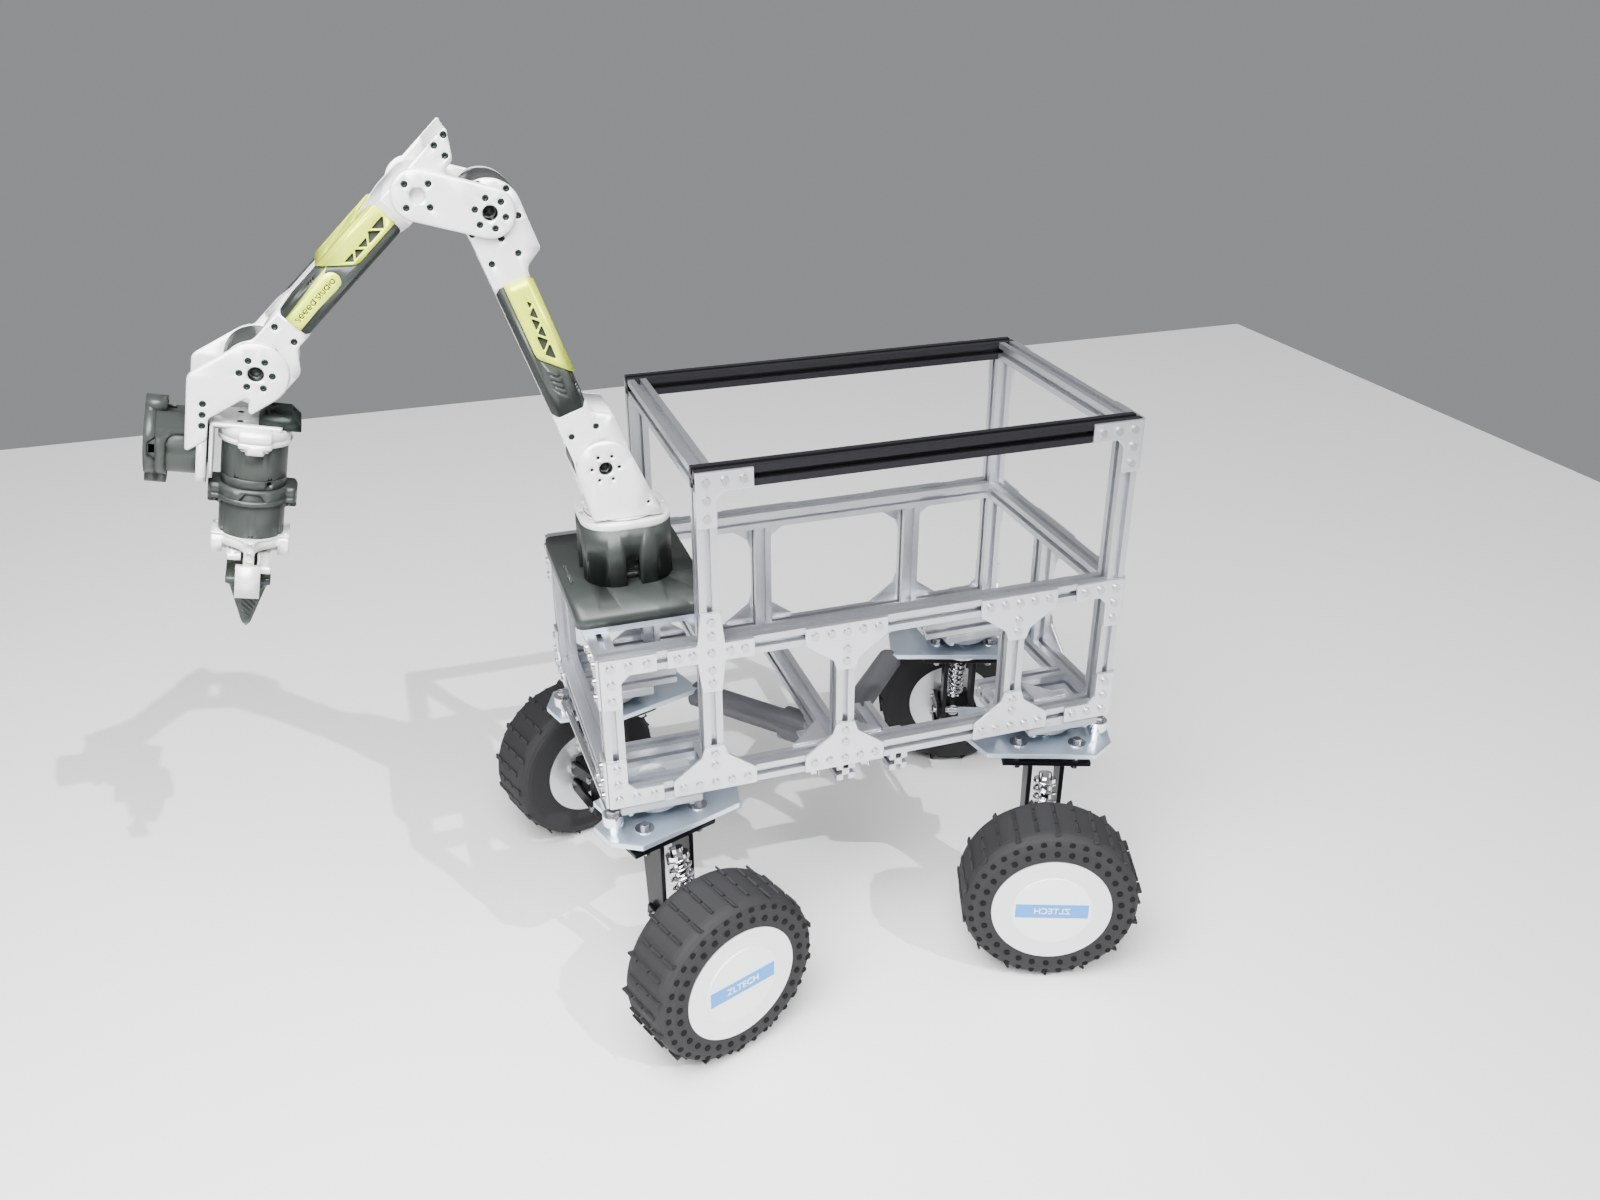
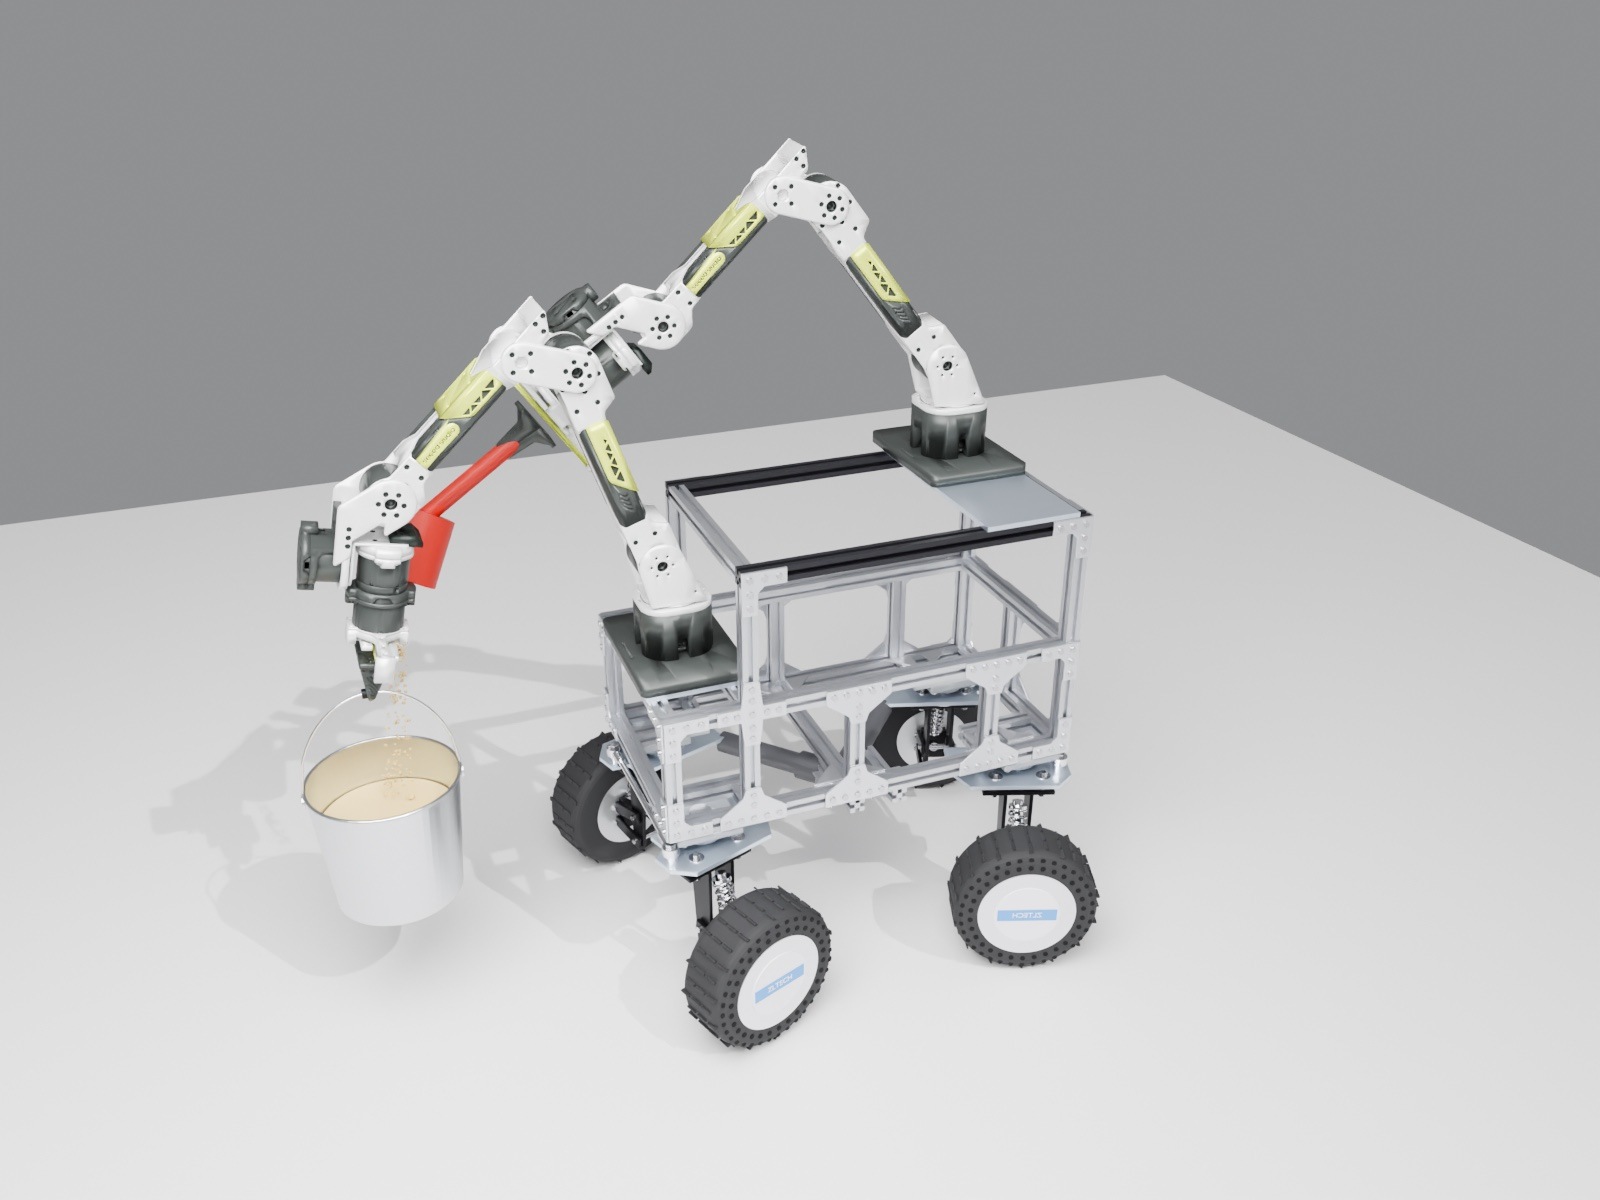
Two reBot arms: front low arm unchanged, second arm on the back of the tall box top; renders and READMEs updated

Changed region(s): [[0.0, 0.0925, 1.0, 0.8942], [0.2188, 0.7708, 0.25, 0.8017]]

diff --git a/arm-rebot/render/render_cemani_with_arm.py b/arm-rebot/render/render_cemani_with_arm.py
@@ -1,5 +1,6 @@
 # Cemani, up-to-date plan: frame v3 sized to the real frame, 4-wheel steering (rear axle = the front axle mirrored, steering
-# the opposite way for tight turns), and the reBot B601-DM on its plate on the front low box.
+# the opposite way for tight turns), and two reBot B601-DM arms working together: arm 1 on its plate on the front low box,
+# arm 2 on a plate across the back of the tall box top, pouring a scoop of feed into the pail arm 1 is holding.
 # Run: Blender -b --factory-startup -P render_cemani_with_arm.py -- VIEW [j1 j2 j3 j4 j5 j6]   (VIEW = iso | side | front | top)
 # Needs Seeed's URDF + colored visual STLs in $REBOT_DIR (default /tmp/rebot-dl): ReBot_Arm_DM.urdf, meshes/visual/*.stl
 # (from github.com/Seeed-Projects/reBot-DevArm, Rebot_Arm_description/DM).
@@ -11,6 +12,14 @@ src = open(FRAME).read()
 argv = sys.argv[sys.argv.index("--") + 1:] if "--" in sys.argv else []
 VIEW = argv[0] if argv else "iso"
 POSE = [float(v) for v in argv[1:7]] if len(argv) >= 7 else [0.0, -1.9, -1.15, 0.6, 0.0, 0.0]
+
+# Arm 2 on the back of the tall box top. Pose solved offline (damped least squares on the URDF chain) so its fingertips sit at
+# ARM2_TIP with the gripper pointing along ARM2_DIR; ARM1_TIP is where arm 1's fingertips land with the default POSE.
+ARM2_BX, ARM2_BY = 85.0, -200.0
+ARM2_POSE = [-0.111, -2.222, -1.434, -0.178, -0.091, 1.507]
+ARM2_TIP = (135.0, 400.0, 420.0)
+ARM2_DIR = (0.0, 0.82, -0.57)
+ARM1_TIP = (0.0, 597.0, 186.0)
 
 def sub(a, b):
     global src
@@ -53,14 +62,69 @@ _base = _M.Translation(_V((0, PY*S, (PZ + PLATE_T)*S))) @ _M.Rotation(math.radia
 _rd = os.environ.get("REBOT_DIR", "/tmp/rebot-dl")
 urdf_arm.build(os.path.join(_rd, "ReBot_Arm_DM.urdf"), os.path.join(_rd, "meshes"), _base,
                dict(zip(["joint1","joint2","joint3","joint4","joint5","joint6"], %r)))
-''' % POSE
+# ---- arm 2: second reBot on a plate across the two black top rails at the back of the tall box (plate TBD) ----
+BX, BY = %r, %r
+BZ = ZT + 10
+box("arm2_plate", 0, BY, BZ + PLATE_T/2, W, 130, PLATE_T, NEWALU)
+_base2 = _M.Translation(_V((BX*S, BY*S, (BZ + PLATE_T)*S))) @ _M.Rotation(math.radians(90), 4, "Z")
+urdf_arm.build(os.path.join(_rd, "ReBot_Arm_DM.urdf"), os.path.join(_rd, "meshes"), _base2,
+               dict(zip(["joint1","joint2","joint3","joint4","joint5","joint6"], %r)))
+# ---- the shared job: arm 1 holds a feed pail by its bail, arm 2 reaches over the body and pours a scoop of feed in ----
+GALV = mat("galv", (0.70, 0.72, 0.74), 1.0, 0.32)
+WOOD = mat("wood", (0.55, 0.38, 0.22), 0.0, 0.6)
+SCOOP = mat("scoop", (0.55, 0.03, 0.02), 0.0, 0.45)
+FEED = mat("feed", (0.78, 0.60, 0.26), 0.0, 0.85)
+def cup(name, base_c, axis, r0, r1, h, m, thick=1.5, bottom=True):
+    axis = _V(axis).normalized(); c = _V(base_c) + axis*(h/2)
+    bpy.ops.mesh.primitive_cone_add(vertices=64, radius1=r0*S, radius2=r1*S, depth=h*S, end_fill_type="NOTHING", location=c*S)
+    o = bpy.context.object; o.name = name; o.rotation_euler = axis.to_track_quat("Z", "Y").to_euler()
+    sd = o.modifiers.new("s", "SOLIDIFY"); sd.thickness = thick*S; o.data.materials.append(m)
+    if bottom:
+        d = cyl(name + "_bottom", *(_V(base_c) + axis*(thick/2)), r0, thick, m, verts=64)
+        d.rotation_euler = o.rotation_euler
+    return o
+# pail: fingers of arm 1 pinch the bail wire (bail runs front to back, across the finger travel)
+TIP1 = _V(%r)
+PR_, PH = 92.0, 165.0                       # ~1 gal galvanized pail: 184 mm across the top, 165 tall
+rim_z = TIP1.z - 108
+pc = _V((TIP1.x, TIP1.y, rim_z))
+cup("pail", pc - _V((0, 0, PH)), (0, 0, 1), 78, PR_, PH, GALV, 1.2)
+bpy.ops.mesh.primitive_torus_add(major_radius=PR_*S, minor_radius=2.2*S, location=pc*S); _t = bpy.context.object
+_t.name = "pail_rim"; _t.data.materials.append(GALV)
+for sy in (-1, 1):
+    cyl("pail_ear", pc.x, pc.y + sy*(PR_ + 2), rim_z - 12, 9, 3, GALV, "y", 24)
+_pts = []
+for i in range(25):
+    t = -1 + 2*i/24
+    _pts.append(_V((pc.x, pc.y + t*(PR_ + 3), rim_z - 12 + (TIP1.z + 12 - (rim_z - 12))*(1 - t*t)**0.5)))
+for p0, p1 in zip(_pts, _pts[1:]): rod("bail", p0, p1, 1.6, STEEL, 10)
+rod("bail_grip", _pts[11], _pts[13], 6, BLKANO, 20)
+# feed already in the pail
+cyl("pail_feed", pc.x, pc.y, rim_z - 60, 84, 4, FEED, verts=64)
+# scoop in arm 2: handle pinched in the fingers, sticking out along the approach, red scoop cup tipped to pour
+TIP2 = _V(%r); A2 = _V(%r).normalized()
+h0, h1 = TIP2 - A2*35, TIP2 + A2*120
+rod("scoop_handle", h0, h1, 11, SCOOP, 24)
+D2 = _V((-0.25, A2.y*0.6, -0.8)).normalized()
+cup("scoop_cup", h1 - D2*10, D2, 38, 46, 85, SCOOP, 2.0)
+import random as _r; _r.seed(4)
+lip = h1 + D2*80
+for i in range(220):
+    t = _r.random()
+    p = lip.lerp(_V((pc.x + 35, pc.y - 15, rim_z - 55)), t)
+    sp = 4 + 14*t
+    p += _V((_r.uniform(-sp, sp), _r.uniform(-sp, sp), _r.uniform(-3, 3)))
+    if t > 0.8 and (p.xy - pc.xy).length > PR_ - 8: continue
+    bpy.ops.mesh.primitive_ico_sphere_add(subdivisions=1, radius=_r.uniform(1.6, 2.6)*S, location=p*S)
+    g = bpy.context.object; g.name = "feed_grain"; g.data.materials.append(FEED)
+''' % (POSE, ARM2_BX, ARM2_BY, ARM2_POSE, ARM1_TIP, ARM2_TIP, ARM2_DIR)
 sub("# Front-only for now", EXTRA + "\n# Front-only for now")
 sub('OUT = "/tmp/cemani/render3"', 'OUT = "/tmp/cemani/render_arm"')
 # cameras: pulled back to fit the arm
-sub('look((-0.95, 0.18, 0.52), (0.0, 0.0, 0.03)); cam.data.lens = 30', 'look((-1.25, 0.45, 0.80), (0.0, 0.03, 0.12)); cam.data.lens = 30')
+sub('look((-0.95, 0.18, 0.52), (0.0, 0.0, 0.03)); cam.data.lens = 30', 'look((-1.45, 0.62, 1.00), (0.0, 0.05, 0.22)); cam.data.lens = 30')
 sub('cam.data.ortho_scale = 1.0; look((-2.0, 0, 0.045), (0, 0, 0.045)); res = (1500, 1000)',
-    'cam.data.ortho_scale = 1.45; look((-2.0, 0.08, 0.22), (0, 0.08, 0.22)); res = (1500, 1150)')
-sub('cam.data.ortho_scale = 0.78; cam.location = (0, 0.0, 2)', 'cam.data.ortho_scale = 1.0; cam.location = (0, 0.05, 2)')
+    'cam.data.ortho_scale = 1.55; look((-2.0, 0.12, 0.27), (0, 0.12, 0.27)); res = (1500, 1150)')
+sub('cam.data.ortho_scale = 0.78; cam.location = (0, 0.0, 2)', 'cam.data.ortho_scale = 1.3; cam.location = (0, 0.2, 2)')
 sub('elif VIEW == "corner":', '''elif VIEW == "front":
     look((-0.75, 1.15, 0.55), (0.0, 0.05, 0.12)); cam.data.lens = 32
 elif VIEW == "corner":''')

diff --git a/arm-rebot/README.md b/arm-rebot/README.md
@@ -1,11 +1,15 @@
-# reBot B601-DM arm on Cemani (plan, not bought yet)
+# Two reBot B601-DM arms on Cemani (plan, not bought yet)
+
+Arm 1 sits on the front low box (unchanged, plate below). Arm 2 sits on the back of the tall box top, across the two black
+top rails (its plate is TBD). They work as a pair: arm 1 holds or grabs low and out front, arm 2 reaches forward over the body
+to help.
 
 Arm: Seeed reBot Arm B601-DM (open source, github.com/Seeed-Projects/reBot-DevArm). 6 joints + gripper, Damiao motors,
 4.7 kg, 1.5 kg rated payload, 767 mm reach with gripper, 24 V (runs off Cemani's 24 V LiFePO4 on its own breaker),
 USB-CAN board to the Jetson Orin Nano. ROS2, LeRobot, Python SDK all marked done in their repo (checked 11/18/2026).
-Assembled bundle $1,658; Star Arm 102 leader arm (for teaching it jobs) $200 separate.
+Assembled bundle $1,658 each, so $3,316 for two; Star Arm 102 leader arm (for teaching it jobs) $200 separate.
 
-## Mounting plate
+## Mounting plate (arm 1, front low box)
 `rebot-mount-plate.dxf` (made by `make_arm_plate.py`), preview `rebot-mount-plate.png`.
 - 200 x 130 mm, 1/4 in 6061, same as the steering plates.
 - Arm holes copied from Seeed's base plate STEP: 4x M4 (4.6 mm) on a 64 mm square, 4x M3 (3.2 mm) on a 26.88 mm square,
@@ -13,17 +17,23 @@ Assembled bundle $1,658; Star Arm 102 leader arm (for teaching it jobs) $200 sep
 - Sits across the two top cross rails of the front low box (about 100 mm centre to centre, judged from the
   11/11 tape photo MEASURE_side.jpg; the Blender model's 137.5 is too long), 8 M5 slots (26 mm long) into drop-in T-nuts, so
   the real spacing can be off by +-10 mm. The M4 screw heads fit in the 80 mm gap between the rails.
-- Cardboard test first, same as the steering plates. The antenna on the front deck moves to the top of the tall box.
+- Cardboard test first, same as the steering plates. The antenna on the front deck has to move; the tall box top now carries
+  arm 2, so the antenna's new spot is TBD.
 
-Tip check (model numbers): arm + 1.5 kg at full forward reach is about 2.5 kg·m about the front axle, against about
+## Arm 2 (back of the tall box top)
+Plate TBD. In the renders it is a placeholder 305 x 130 mm plate across the two black top rails, centred 200 mm behind the
+middle of the robot, with the arm 130 mm right of centre so it clears arm 1 when both reach forward.
+
+Tip check (model numbers, arm 1 alone): arm + 1.5 kg at full forward reach is about 2.5 kg·m about the front axle, against about
 8 kg·m from the robot's own weight, so roughly 3x margin.
 
 ## What it will look like (plan as of 11/18/2026)
 4-wheel steering (rear axle = front axle mirrored, turning the opposite way for tight turns), the frame sized to the real
-robot, and the reBot on its plate on the front low box. Made by `render/render_cemani_with_arm.py` from the frame v3 model and
-Seeed's own arm model.
+robot, arm 1 on its plate on the front low box holding a feed pail, and arm 2 on the back of the tall box reaching over the
+body to pour a scoop of feed into it. Made by `render/render_cemani_with_arm.py` from the frame v3 model and
+Seeed's own arm model; arm 2's pose was solved from the same URDF so its gripper lands over the pail.
 
-![Cemani with 4-wheel steering and the reBot arm](renders/cemani-4ws-arm-iso.jpg)
+![Cemani with 4-wheel steering and two reBot arms](renders/cemani-4ws-arm-iso.jpg)
 
 | Side | Front | Top |
 |---|---|---|

diff --git a/README.md b/README.md
@@ -28,7 +28,7 @@ A 1kW, four-hub-motor tank robot for a homestead, with its own firmware, a WebSo
 
 ---
 
-![Cemani plan: 4-wheel steering and the reBot arm](arm-rebot/renders/cemani-4ws-arm-iso.jpg)
+![Cemani plan: 4-wheel steering and two reBot arms working together](arm-rebot/renders/cemani-4ws-arm-iso.jpg)
 
 ---
 
